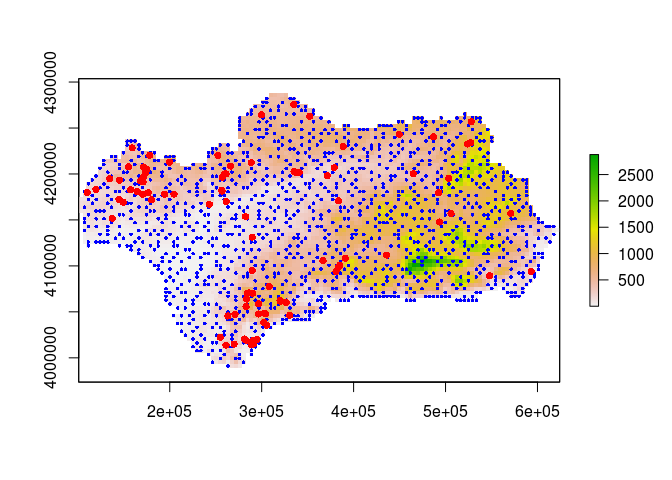
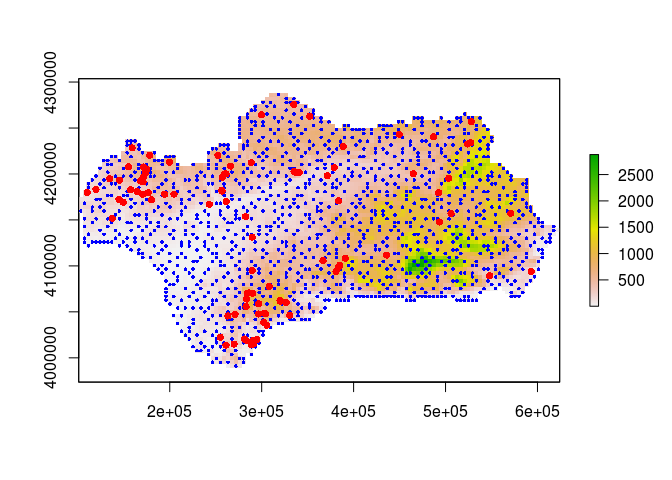
update readme

Changed region(s): [[0.125, 0.1875, 0.8438, 0.75]]

diff --git a/readme.md b/readme.md
@@ -140,9 +140,19 @@ Let's compare to a PA sdm - hopefully we are in the right ball park
 
 ``` r
 d <- sdmData(formula= ~., train=species, predictors=preds)
-m1 <- sdm(Occurrence~.,data=d,methods=c('gam'))
-p1 <- predict(m1,newdata=preds)
-plot(p1)
+dat <- cbind(species$Occurrence,d@features)
+colnames(dat)[1]<-'occurrence'
+fm2 <- gam(occurrence ~ s(elevation) +
+              s(precipitation) +
+              s(temperature) +
+              s(vegetation),
+              data = dat,
+              family = binomial())
+
+p2 <- predict(object=preds,
+             model=fm2,
+             type = 'response')
+plot(p2)
 ```
 
 ![](readme_files/figure-markdown_github/unnamed-chunk-6-1.png) \#\#\# References Grafström, Anton, and Yves Tillé. "Doubly balanced spatial sampling with spreading and restitution of auxiliary totals." Environmetrics 24.2 (2013): 120-131.
